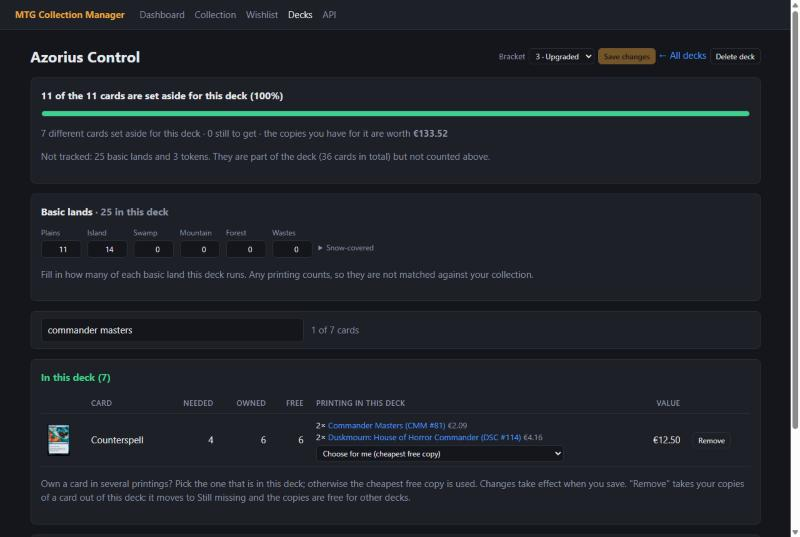
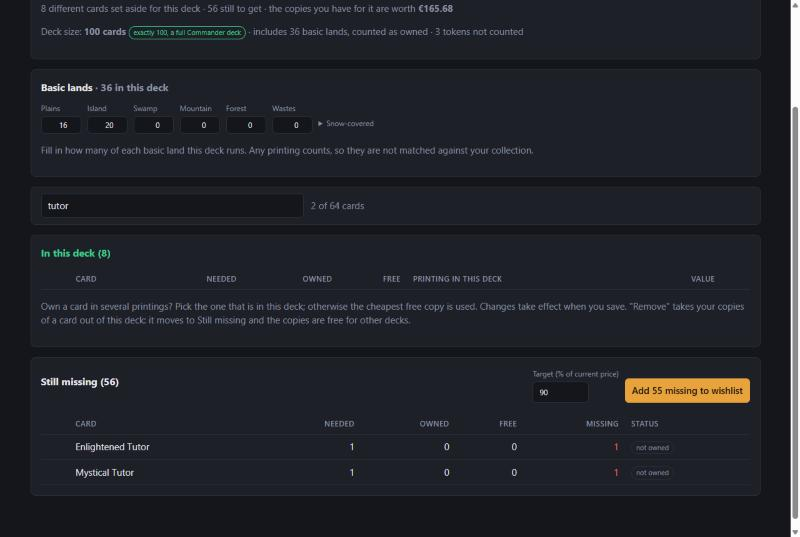
Count basic lands in the deck size
Basic lands now count towards the cards of a deck, and as owned, in the
decks overview and on the deck page. The deck page shows the deck size
and whether it is exactly 100 cards, the size of a Commander deck, or how
many it is short or over. Tokens stay extras and are not counted. The
API reports deck_size and deck_owned.

Refresh the deck screenshots in the README.

diff --git a/app/templates/deck.html b/app/templates/deck.html
@@ -81,7 +81,7 @@
     <tr data-bracket="{{ s.deck.bracket if s.deck.bracket else 'none' }}" data-complete="{{ 1 if s.complete else 0 }}">
       <td><a href="/decks/{{ s.deck.id }}">{{ s.deck.name }}</a></td>
       <td>{% if s.bracket_name %}<span class="badge bracket">{{ s.deck.bracket }} · {{ s.bracket_name }}</span>{% else %}<span class="muted">–</span>{% endif %}</td>
-      <td class="num">{{ s.usable }} / {{ s.needed }}</td>
+      <td class="num" title="Cards you have / cards in the deck, basic lands included">{{ s.total_owned }} / {{ s.total_cards }}</td>
       <td style="width: 35%"><div class="progress slim"><div style="width: {{ s.percent }}%"></div></div></td>
       <td class="num">{{ s.value | eur }}</td>
       <td>{% if s.complete %}<span class="badge hit">complete</span>{% else %}<span class="badge">{{ s.needed - s.usable }} missing</span>{% endif %}</td>
@@ -138,8 +138,11 @@
 {% set have = rows | rejectattr('missing') | list %}
 {% set need = rows | selectattr('missing') | list %}
 {% set addable = need | rejectattr('on_wishlist') | list %}
-{% set total = rows | sum(attribute='needed') %}
-{% set usable = rows | sum(attribute='usable') %}
+{# Basic lands count as cards of the deck (and as owned); tokens are extras and do not. #}
+{% set basics = left_out.basic_total if left_out else 0 %}
+{% set tokens = left_out.tokens if left_out else 0 %}
+{% set total = (rows | sum(attribute='needed')) + basics %}
+{% set usable = (rows | sum(attribute='usable')) + basics %}
 {% set value = rows | sum(attribute='value') %}
 {% set pct = (usable / total * 100) | round | int if total else 0 %}
 
@@ -154,15 +157,14 @@
     {{ have | length }} different cards {{ 'set aside for this deck' if deck else 'ready to pull from your collection' }} · {{ need | length }} still to get
     · the copies you have for it are worth <strong>{{ value | eur }}</strong>
   </p>
-  {% set basics = left_out.basic_total if left_out else 0 %}
-  {% set tokens = left_out.tokens if left_out else 0 %}
-  {% if basics or tokens %}
-  <p class="muted">
-    Not tracked:
-    {% if basics %}{{ basics }} basic land{{ 's' if basics != 1 }}{% if not deck %} ({% for land, count in left_out.basics.items() %}{{ count }} {{ land }}{{ ', ' if not loop.last }}{% endfor %}){% endif %}{% endif %}{{ ' and ' if basics and tokens }}{% if tokens %}{{ tokens }} token{{ 's' if tokens != 1 }}{% endif %}.
-    They are part of the deck ({{ total + basics }} cards in total) but not counted above.
+  <p class="muted deck-size">
+    Deck size: <strong>{{ total }} cards</strong>
+    {% if total == 100 %}<span class="badge hit">exactly 100, a full Commander deck</span>
+    {% elif total < 100 %}<span class="badge">{{ 100 - total }} short of 100 for Commander</span>
+    {% else %}<span class="badge">{{ total - 100 }} over 100 for Commander</span>{% endif %}
+    {% if basics %}· includes {{ basics }} basic land{{ 's' if basics != 1 }}{% if not deck %} ({% for land, count in left_out.basics.items() %}{{ count }} {{ land }}{{ ', ' if not loop.last }}{% endfor %}){% endif %}, counted as owned{% endif %}
+    {% if tokens %}· {{ tokens }} token{{ 's' if tokens != 1 }} not counted{% endif %}
   </p>
-  {% endif %}
   {% if not deck %}
   <form class="row" method="post" action="/deck/save">
     <input type="hidden" name="decklist" value="{{ decklist }}">

diff --git a/tests/test_decks.py b/tests/test_decks.py
@@ -291,15 +291,18 @@ def test_saved_deck_keeps_its_basic_lands_per_land(client):
     decklist = "1 Sol Ring\n20 Forest\n10 Plains\n2 Treasure Token"
 
     checked = client.post("/deck", data={"decklist": decklist, "action": "check"})
-    assert "You have 1 of the 1 cards for this deck available (100%)" in checked.text
-    assert "30 basic lands (10 Plains, 20 Forest) and 2 tokens" in checked.text
+    assert "You have 31 of the 31 cards for this deck available (100%)" in checked.text  # 1 card + 30 lands
+    assert "includes 30 basic lands (10 Plains, 20 Forest), counted as owned" in checked.text
+    assert "2 tokens not counted" in checked.text and "69 short of 100 for Commander" in checked.text
     assert 'name="basic:Forest" value="20"' in checked.text
 
     saved = client.post("/deck", data={"decklist": decklist, "deck_name": "Ramp", "action": "save"})
-    assert "This deck is complete." in saved.text and "30 basic lands and 2 tokens" in saved.text
-    assert "31 cards in total" in saved.text  # tokens are extras, not part of the deck size
+    assert "This deck is complete." in saved.text and "includes 30 basic lands, counted as owned" in saved.text
+    assert "31 of the 31 cards are set aside for this deck (100%)" in saved.text
+    assert "Deck size: <strong>31 cards</strong>" in saved.text  # tokens are extras, not part of the deck size
     deck = client.get("/api/decks").json()[0]
     assert (deck["cards_needed"], deck["complete"], deck["basic_land_count"]) == (1, True, 30)
+    assert (deck["deck_size"], deck["deck_owned"]) == (31, 31)
     detail = client.get(f"/api/decks/{deck['id']}").json()
     assert detail["basic_lands"] == {"Plains": 10, "Forest": 20} and detail["untracked"] == {"basic": 30, "token": 2}
 
@@ -308,7 +311,7 @@ def test_saved_deck_keeps_its_basic_lands_per_land(client):
 
     # Saving after "Only check" keeps the lands and the bracket; deleting a deck cleans up.
     again = client.post("/deck/save", data={"name": "Later", "decklist": "1 Sol Ring", "basic:Island": "7", "skipped_token": "0", "bracket": "4"})
-    assert "7 basic lands." in again.text
+    assert "includes 7 basic lands, counted as owned" in again.text
     later = client.get("/api/decks").json()[-1]
     assert (later["basic_land_count"], later["bracket"], later["bracket_name"]) == (7, 4, "Optimized")
     for d in client.get("/api/decks").json():
@@ -331,7 +334,7 @@ def test_edit_basic_lands_of_a_saved_deck(client):
     page = client.get(f"/decks/{deck['id']}")
     assert 'name="basic:Plains" type="number" min="0" step="1" value="10"' in page.text
     assert 'name="basic:Swamp" type="number" min="0" step="1" value="0"' in page.text
-    assert "14 cards in total" in page.text
+    assert "Deck size: <strong>14 cards</strong>" in page.text
 
     form = client.post(f"/decks/{deck['id']}/basics", data={"basic:Plains": "8", "basic:Snow-Covered Forest": "2", "basic:Forest": ""})
     assert "Basic lands updated" in form.text
@@ -623,3 +626,30 @@ def test_filter_decks_by_bracket(client):
     assert [d["name"] for d in client.get("/api/decks", params={"bracket": 4}).json()] == ["Burn"]
     assert client.get("/api/decks", params={"bracket": 3}).json() == []
     assert len(client.get("/api/decks").json()) == 3
+
+
+def test_basic_lands_count_towards_the_deck_size(client):
+    # A 100-card Commander deck: 64 different cards you may or may not own, plus 36 basic lands.
+    client.post("/api/collection", json={"name": "Sol Ring"})
+    decklist = "1 Sol Ring\n63 Fire // Ice\n20 Forest\n16 Island"
+    deck = client.post("/api/decks", json={"name": "Commander", "decklist": decklist}).json()
+    assert (deck["cards_needed"], deck["cards_usable"], deck["basic_land_count"]) == (64, 1, 36)
+    assert (deck["deck_size"], deck["deck_owned"], deck["complete"]) == (100, 37, False)
+
+    listing = client.get("/deck").text
+    assert ">37 / 100</td>" in listing  # the list counts the lands too
+
+    page = client.get(f"/decks/{deck['id']}").text
+    assert "37 of the 100 cards are set aside for this deck (37%)" in page
+    assert "Deck size: <strong>100 cards</strong>" in page and "exactly 100, a full Commander deck" in page
+
+    # Changing the lands changes the deck size straight away.
+    client.put(f"/api/decks/{deck['id']}/basic-lands", json={"Forest": 20, "Island": 14})
+    page = client.get(f"/decks/{deck['id']}").text
+    assert "Deck size: <strong>98 cards</strong>" in page and "2 short of 100 for Commander" in page
+    client.put(f"/api/decks/{deck['id']}/basic-lands", json={"Forest": 20, "Island": 19})
+    assert "3 over 100 for Commander" in client.get(f"/decks/{deck['id']}").text
+
+    checked = client.post("/deck", data={"decklist": decklist, "action": "check"}).text
+    # The only Sol Ring is in the saved deck now, so a second deck gets the 36 lands and nothing else.
+    assert "You have 36 of the 100 cards for this deck available (36%)" in checked

diff --git a/app/services/decks.py b/app/services/decks.py
@@ -129,8 +129,18 @@ class DeckSummary:
         return self.usable >= self.needed
 
     @property
+    def total_cards(self) -> int:
+        """Deck size: the tracked cards plus the basic lands (a Commander deck has 100)."""
+        return self.needed + self.basic_lands
+
+    @property
+    def total_owned(self) -> int:
+        """Cards of the deck you have; basic lands are counted as owned."""
+        return self.usable + self.basic_lands
+
+    @property
     def percent(self) -> int:
-        return round(self.usable / self.needed * 100) if self.needed else 0
+        return round(self.total_owned / self.total_cards * 100) if self.total_cards else 0
 
 
 def card_kind(name: str, kind: str = CARD) -> str:

diff --git a/app/routers/api.py b/app/routers/api.py
@@ -282,6 +282,7 @@ def _deck_out(summary: decks.DeckSummary) -> DeckOut:
         id=summary.deck.id, name=summary.deck.name, cards_needed=summary.needed,
         cards_usable=summary.usable, complete=summary.complete, value=summary.value,
         bracket=summary.deck.bracket, bracket_name=summary.bracket_name, basic_land_count=summary.basic_lands,
+        deck_size=summary.total_cards, deck_owned=summary.total_owned,
     )
 
 

diff --git a/app/schemas.py b/app/schemas.py
@@ -216,6 +216,9 @@ class DeckOut(BaseModel):
     bracket: int | None = None
     bracket_name: str | None = None
     basic_land_count: int = 0
+    # Deck size including basic lands (a Commander deck has 100), and how many of those you have.
+    deck_size: int = 0
+    deck_owned: int = 0
 
 
 class DeckDetailOut(DeckOut):

diff --git a/README.md b/README.md
@@ -31,11 +31,11 @@ price.
 
 ![The saved decks filtered on bracket 3: two of the five decks are left](docs/decks-filter.jpg)
 
-![A saved deck: its bracket, basic lands per land, search, and the printing each card uses](docs/deck.jpg)
+![A saved deck of exactly 100 cards: its bracket, deck size, basic lands per land, search, and the printing each card uses](docs/deck.jpg)
 
 ![Unsaved changes in a deck: the changed fields are highlighted and one button saves them all](docs/deck-unsaved.jpg)
 
-![Searching inside a deck on a set name](docs/deck-search.jpg)
+![Searching inside a deck](docs/deck-search.jpg)
 
 ![A card taken out of a deck: it moved to Still missing and can be put back](docs/deck-removed.jpg)
 
@@ -74,6 +74,7 @@ price.
 - Deck check: paste a decklist, upload a deck file or give an Archidekt URL. You see which cards you already own and in which printing (set, foil, quantity), so you can pull them from your collection, and you can add the missing cards to your wishlist in one click
 - Saved decks: save a deck and the cards you own are set aside for it. Every copy can only be in one deck, so a second deck does not count the same Sol Ring again; it shows which deck is using it instead
 - Basic lands and tokens are left out of the tracked cards by default, so they do not show up as missing or end up on your wishlist; tick a box to include them
+- Deck size: basic lands count towards the cards of a deck, so you can see at a glance whether a Commander deck has exactly 100 cards, or how many it is short or over
 - Basic lands per deck: fill in how many of each basic land a deck runs, whatever the printing. Imported decks start with the numbers from the list, and older decks can move their lands over in one click
 - Deck randomizer: can't decide what to play? Pick a random deck, or a different one for every player at the table, optionally only from one bracket or only decks you can build right now
 - Take a card out of a deck: "Remove" moves it from "In this deck" to "Still missing" and frees your copies for other decks; "Put back" undoes it
